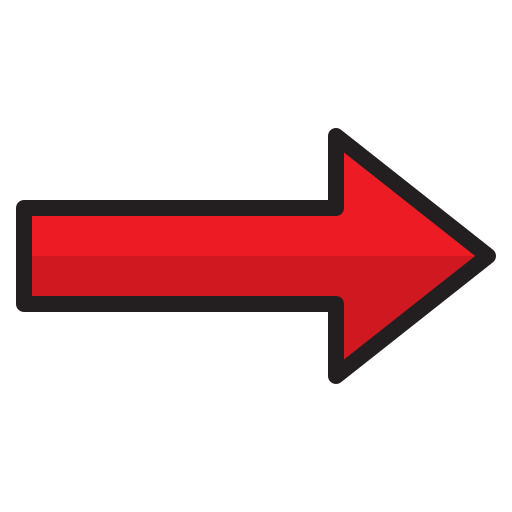
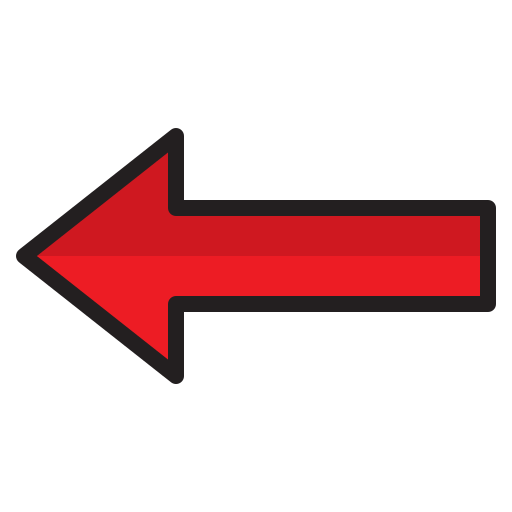
Modificações no png voltar 2

Changed region(s): [[0.0312, 0.25, 0.9688, 0.75]]

diff --git a/static/style.css b/static/style.css
@@ -377,15 +377,14 @@ a:hover {
   width: 36px;
   height: 36px;
   cursor: pointer;
-  transform: scaleY(-1);
 }
 
 .btn-voltar-img:hover {
-  transform: scale(1.6);
+  transform: scale(1.4);
 }
 
 button:active {
-  transform: scale(1.05);
+  transform: scale(1.4);
 }
 
 @media (max-width: 600px) {
